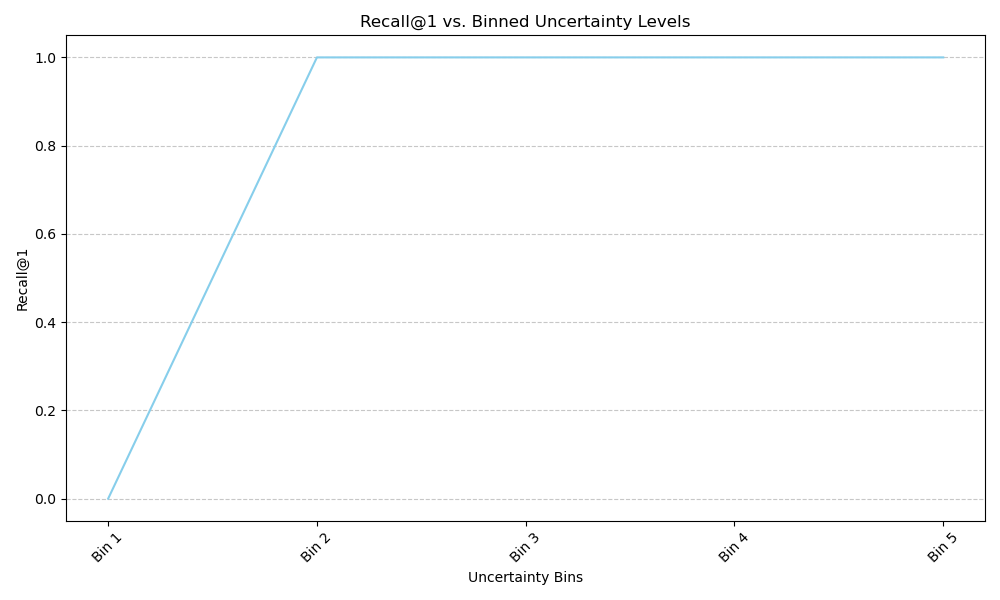
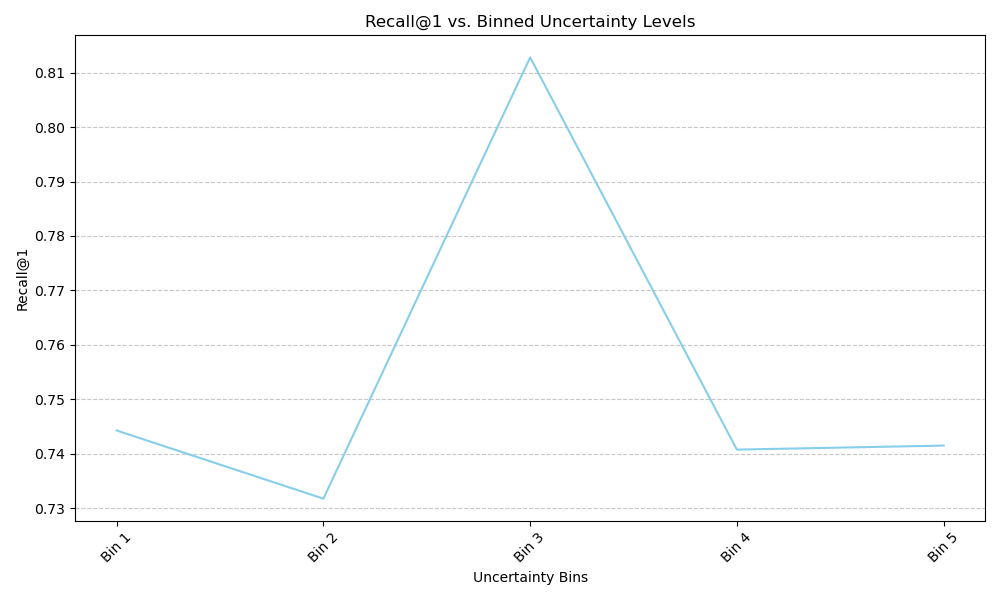
adding figs

diff --git a/alvis_code/ProbVLM/src/make_plots.py b/alvis_code/ProbVLM/src/make_plots.py
@@ -1,4 +1,5 @@
 import numpy as np
+import re
 import torch
 import matplotlib.pyplot as plt
 
@@ -51,6 +52,48 @@ def plot_MSE_MAE(metrics, save_path="../ckpt/", model_name="model"):
     path = save_path + model_name + "_MSE_MAE.png" 
     plt.savefig(path, dpi=300)
 
+
+def plot_kl(metrics, save_path="../ckpt/", model_name="model"):
+    plt.figure(figsize=(10, 6))
+    plt.plot(metrics["epochs"], metrics["kl"], label="KL Divergence Term")
+    plt.xlabel("Epochs")
+    plt.ylabel("KL Divergence Term")
+    plt.title("Loss KL Divergence Term vs. Epochs")
+    plt.legend()
+    plt.grid()
+    path = save_path + model_name + "_KL.png" 
+    plt.savefig(path, dpi=300)
+
+
+def extract_kl_values_from_slurm(file_path):
+    kl_values = []
+
+    # Regular expression to match the KL tensor values
+    kl_pattern = r"kl: tensor\(\[([\d\.\-e]+)\], device='cuda:\d+'"
+
+    with open(file_path, 'r') as file:
+        for line in file:
+            match = re.search(kl_pattern, line)
+            if match:
+                # Extract the numeric value and convert to float
+                kl_value = float(match.group(1))
+                kl_values.append(kl_value)
+
+    return kl_values[:-1]
+
+
+def plot_extracted_kl(kl_values, metrics, save_path="../ckpt/", model_name="model"):
+    plt.figure(figsize=(10, 6))
+    plt.plot(metrics["epochs"], kl_values, label="KL Divergence Term")
+    plt.xlabel("Epochs")
+    plt.ylabel("KL Divergence Term")
+    plt.title("Loss KL Divergence Term vs. Epochs")
+    plt.legend()
+    plt.grid()
+    path = save_path + model_name + "_KL.png" 
+    plt.savefig(path, dpi=300)
+
+
 def convert_tensors_in_lists(data):
     """
     Recursively convert tensors in lists or nested structures to NumPy arrays.
@@ -61,6 +104,7 @@ def convert_tensors_in_lists(data):
         return data.cpu().numpy()
     else:
         return data
+
 
 def main():
     # Load the metrics file
@@ -77,6 +121,9 @@ def main():
     plot_MSE(metrics, save_path, model_name)
     plot_MAE(metrics, save_path, model_name)
     plot_MSE_MAE(metrics, save_path, model_name)
+
+    kl_values = extract_kl_values_from_slurm("./output_train_slurm/BBB_EncBL.out")
+    plot_extracted_kl(kl_values, metrics, save_path, model_name)
 
     print(f"Plots saved to {save_path}")
 

diff --git a/alvis_code/ProbVLM/src/main.py b/alvis_code/ProbVLM/src/main.py
@@ -67,7 +67,8 @@ def train_ProbVLM(
         "train_loss": [],
         "val_mse": [],
         "val_mae": [],
-        "epochs": []
+        "epochs": [],
+        "kl": []
     }
 
     score = 1e8
@@ -128,9 +129,11 @@ def train_ProbVLM(
             print('current mae score: {} | Last best mae score: {}'.format(val_mae, score))
             if model == "BBB" or model == "BBB_EncBL":
                 print(f"kl: {kl} | kl_weight: {kl_weight}")
+                metrics["kl"].append(kl)
             metrics["val_mse"].append(val_mse)
             metrics["val_mae"].append(val_mae)
             metrics["epochs"].append(eph)
+
             if val_mae <= score:
                 score = val_mae
                 torch.save(BayesCap_Net.state_dict(), ckpt_path+'_best.pth')

diff --git a/alvis_code/ProbVLM/src/uncertainty_estimates.py b/alvis_code/ProbVLM/src/uncertainty_estimates.py
@@ -251,7 +251,7 @@ def main():
     model = "../ckpt/ProbVLM_Net_best.pth"
     #eval_results = load_and_evaluate()
     #print(eval_results)
-    bin_recalls, bins = load_and_evaluate_uncert(ckpt_path=model, bins_type="eq_spacing", model_type="ProbVLM")
+    bin_recalls, bins = load_and_evaluate_uncert(ckpt_path=model, bins_type="eq_samples", model_type="ProbVLM")
     print("Recall@1 for each bin:", bin_recalls)
 
     #iod_ood = compare_iod_vs_ood(ckpt_path=model)

diff --git a/alvis_code/ProbVLM/src/utils.py b/alvis_code/ProbVLM/src/utils.py
@@ -160,8 +160,8 @@ def emb_mse(x1, x2):
     return m
 
 def get_GGuncer(x_alpha, x_beta, print_u="False"):
-    # a = 1/(x_alpha + 1e-5) # precision = 1 / variance
-    a = x_alpha + 1e-5
+    a = 1/(x_alpha + 1e-5) # precision = 1 / variance
+    # a = x_alpha + 1e-5
     a = torch.clip(a, min=1e-4, max=5)
     b = x_beta
     b = torch.clip(x_beta, min=0.1, max=5)
